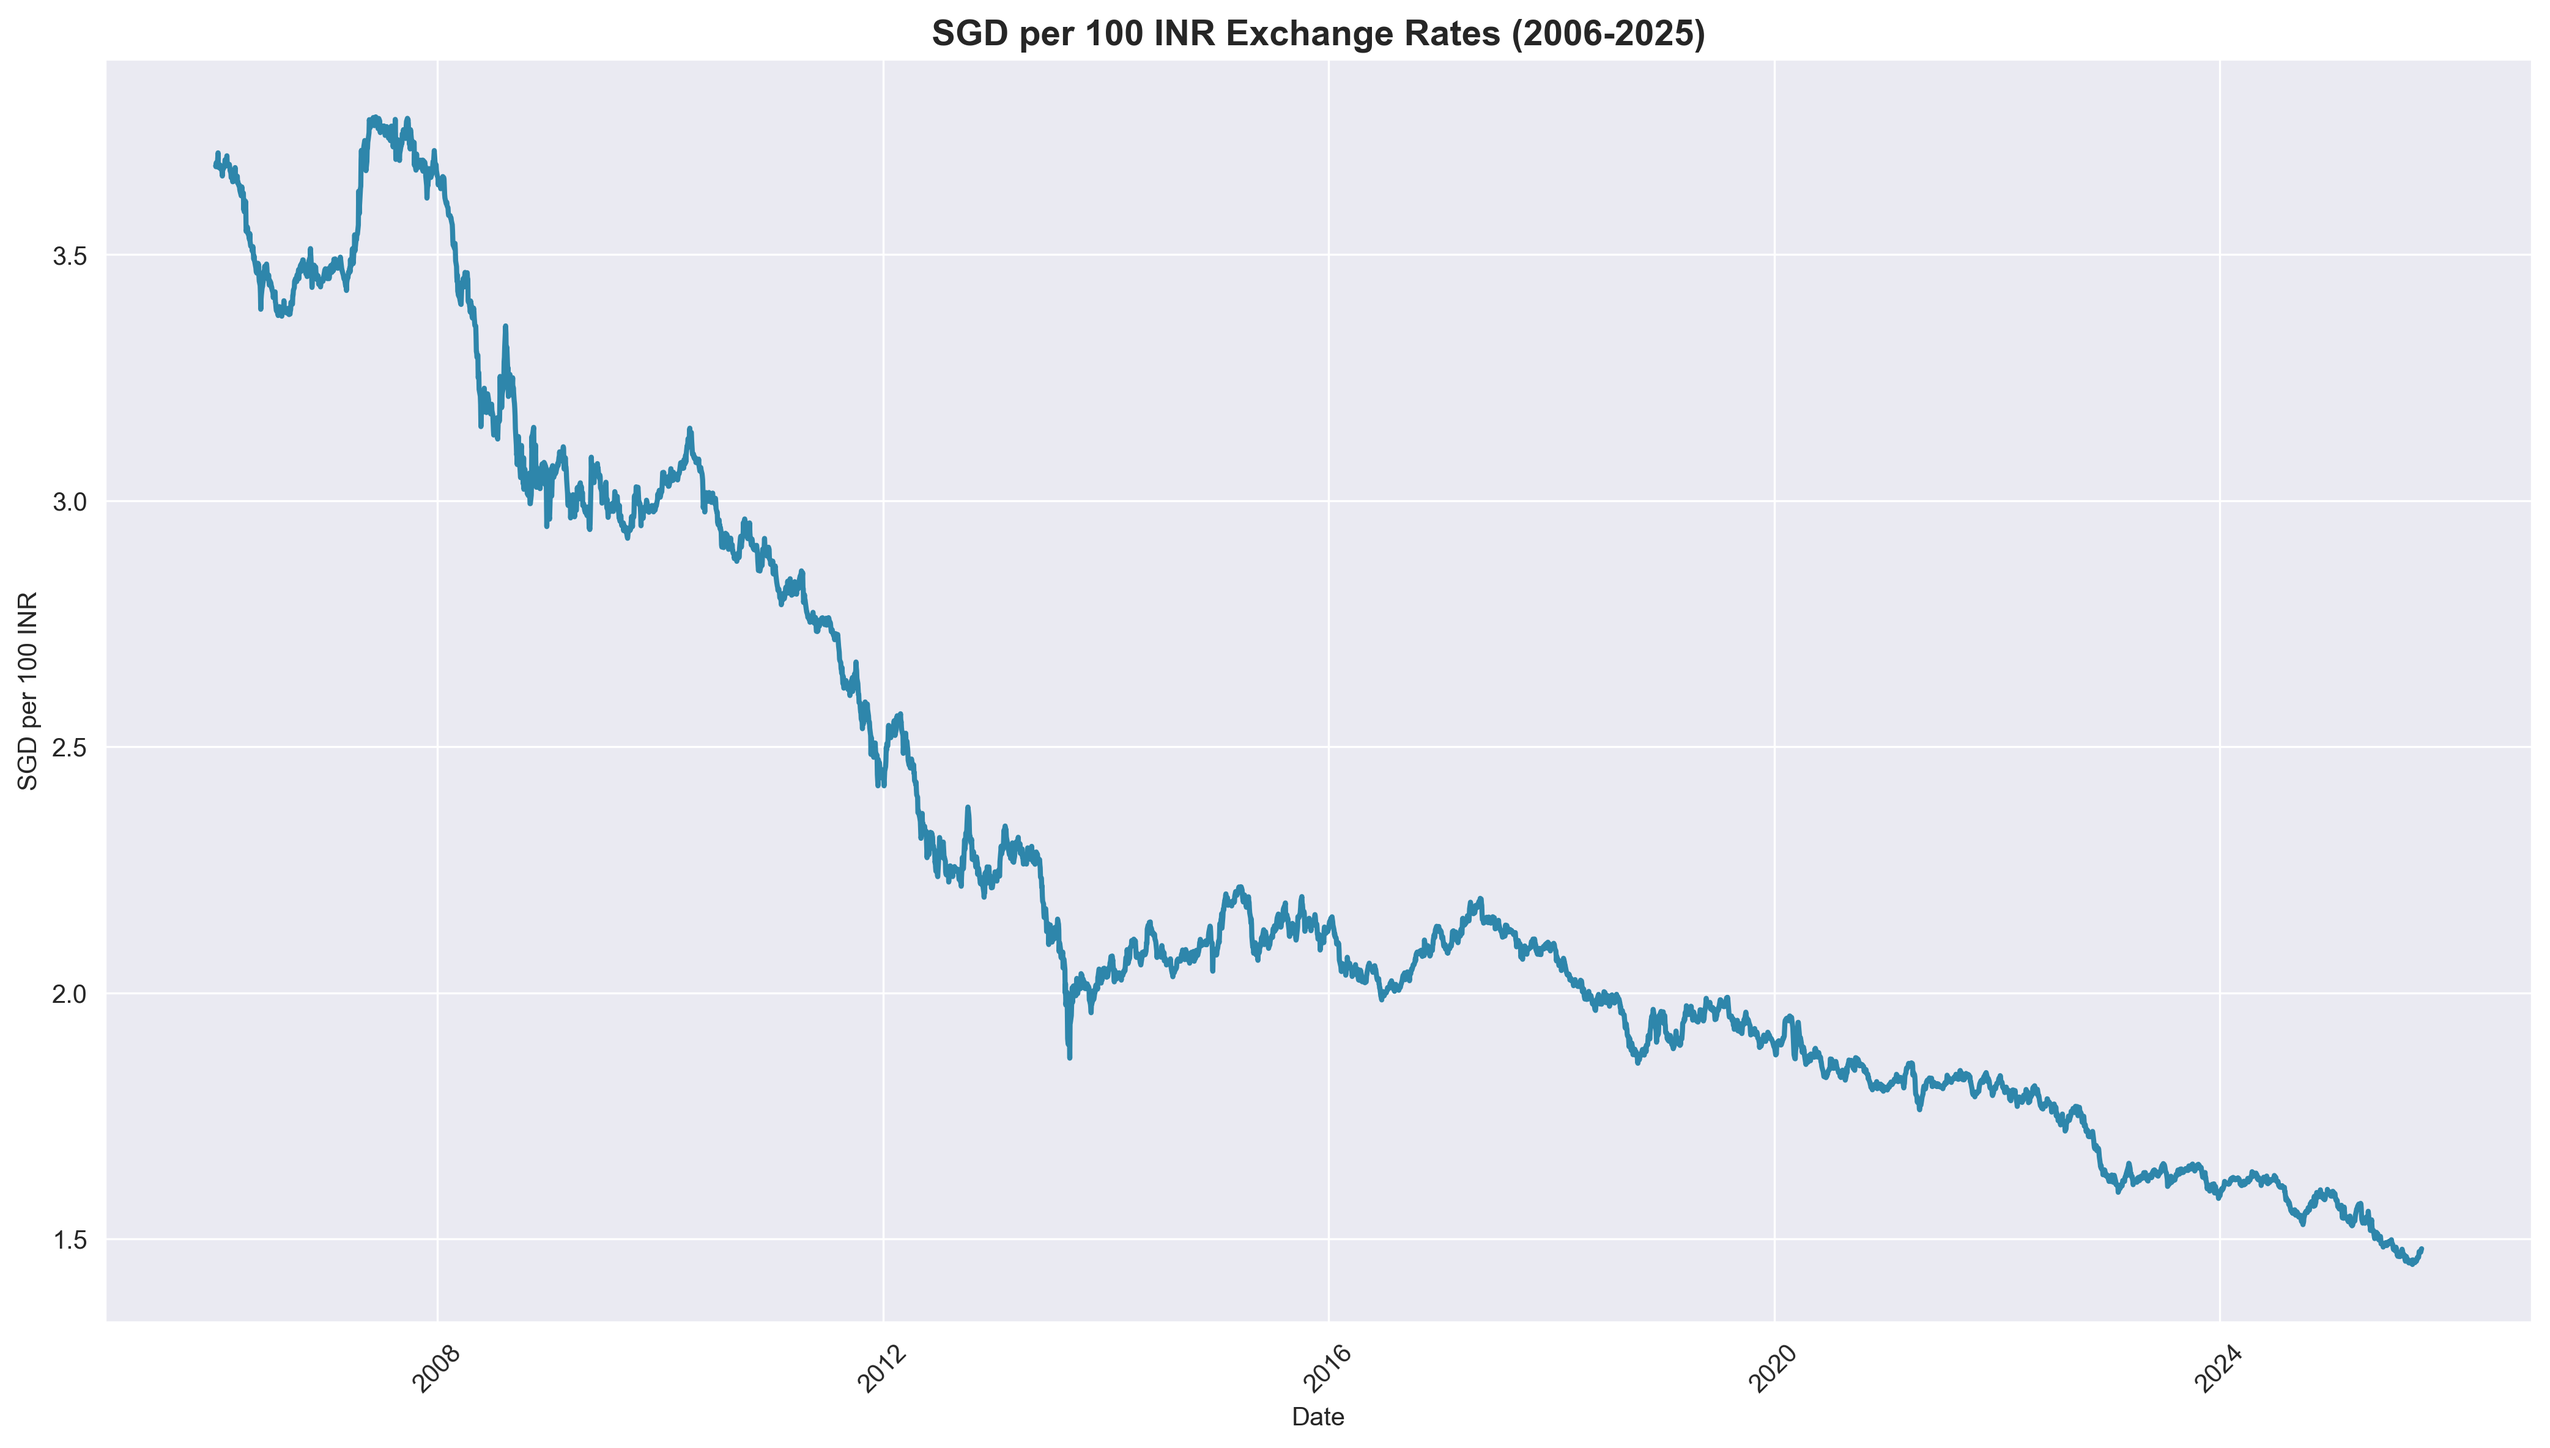
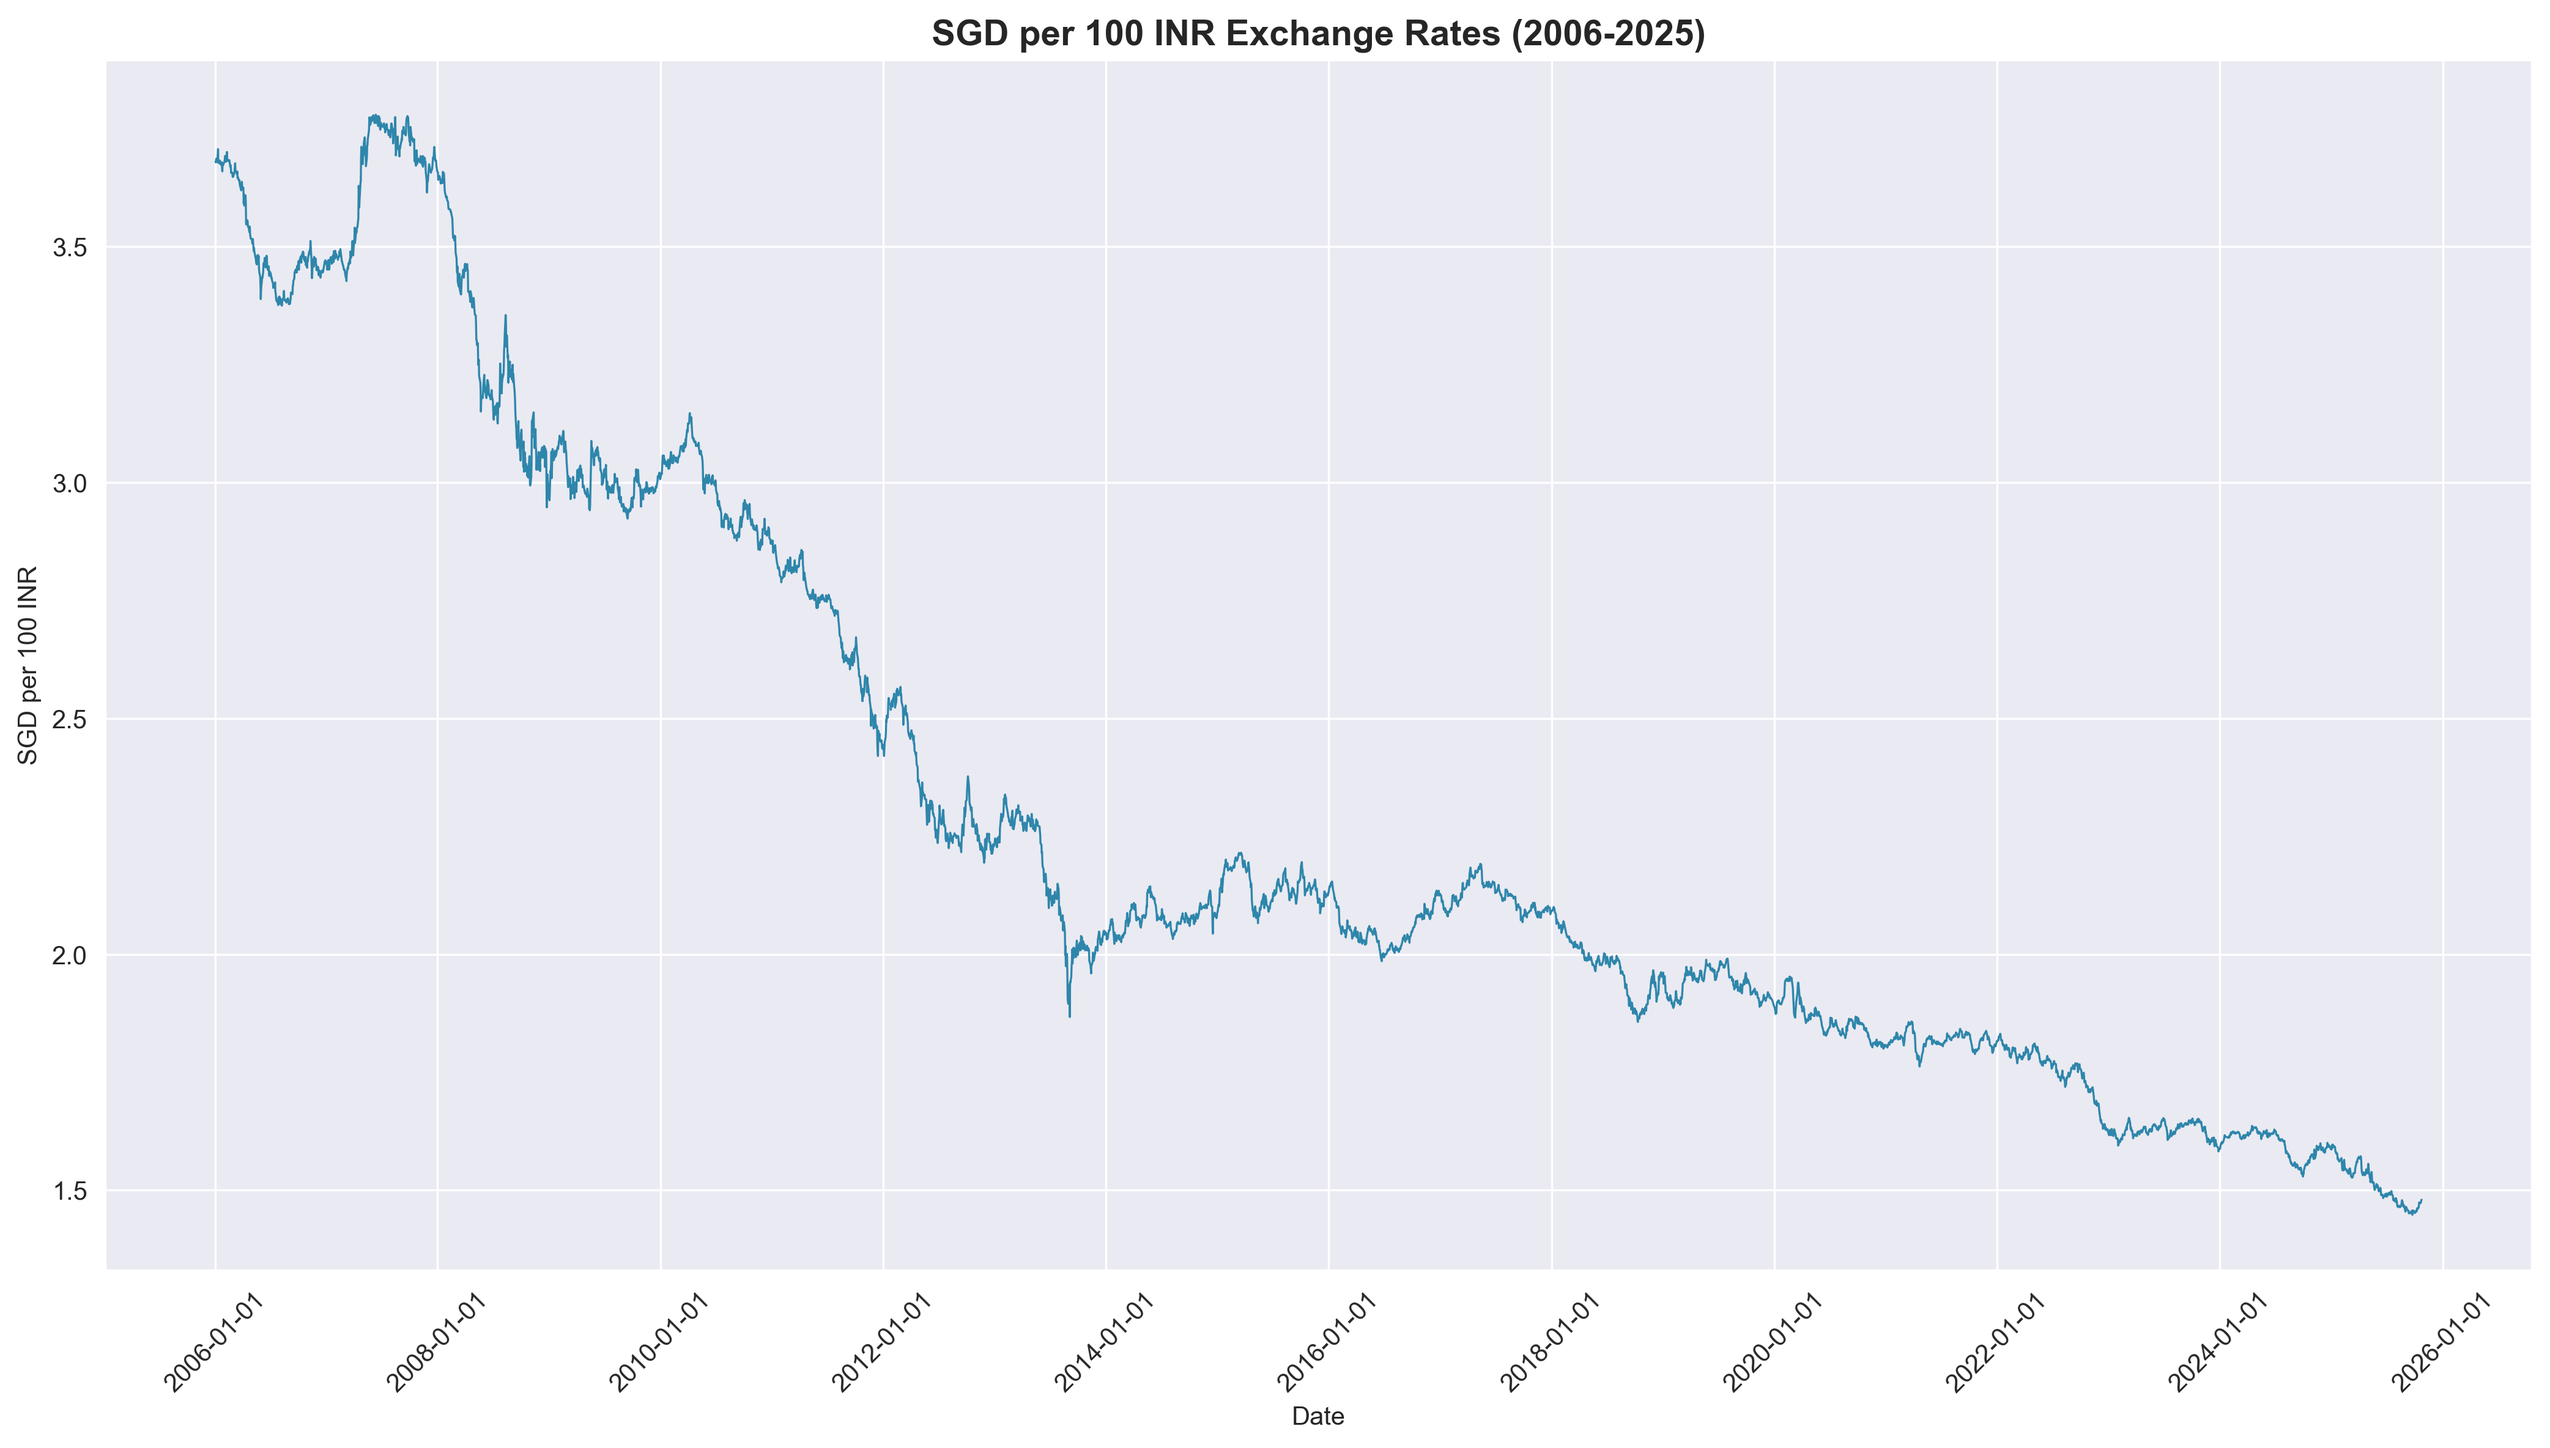
Improve visualization: thinner line and YYYY-MM-DD x-axis format

diff --git a/visualize_exchange_rates.py b/visualize_exchange_rates.py
@@ -1,6 +1,7 @@
 import pandas as pd
 import seaborn as sns
 import matplotlib.pyplot as plt
+import matplotlib.dates as mdates
 
 # Load data
 df = pd.read_csv('Exchange_Rates_Fixed.csv')
@@ -12,11 +13,15 @@ sns.set_palette("husl")
 plt.figure(figsize=(14, 8))
 
 # Create line plot
-sns.lineplot(data=df, x='Date', y='SGD_per_100_INR', linewidth=2, color='#2E86AB')
+sns.lineplot(data=df, x='Date', y='SGD_per_100_INR', linewidth=0.8, color='#2E86AB')
 
 plt.title('SGD per 100 INR Exchange Rates (2006-2025)', fontsize=14, fontweight='bold')
 plt.xlabel('Date')
 plt.ylabel('SGD per 100 INR')
+
+# Format x-axis dates
+plt.gca().xaxis.set_major_formatter(mdates.DateFormatter('%Y-%m-%d'))
+plt.gca().xaxis.set_major_locator(mdates.YearLocator(2))
 plt.xticks(rotation=45)
 plt.tight_layout()
 
